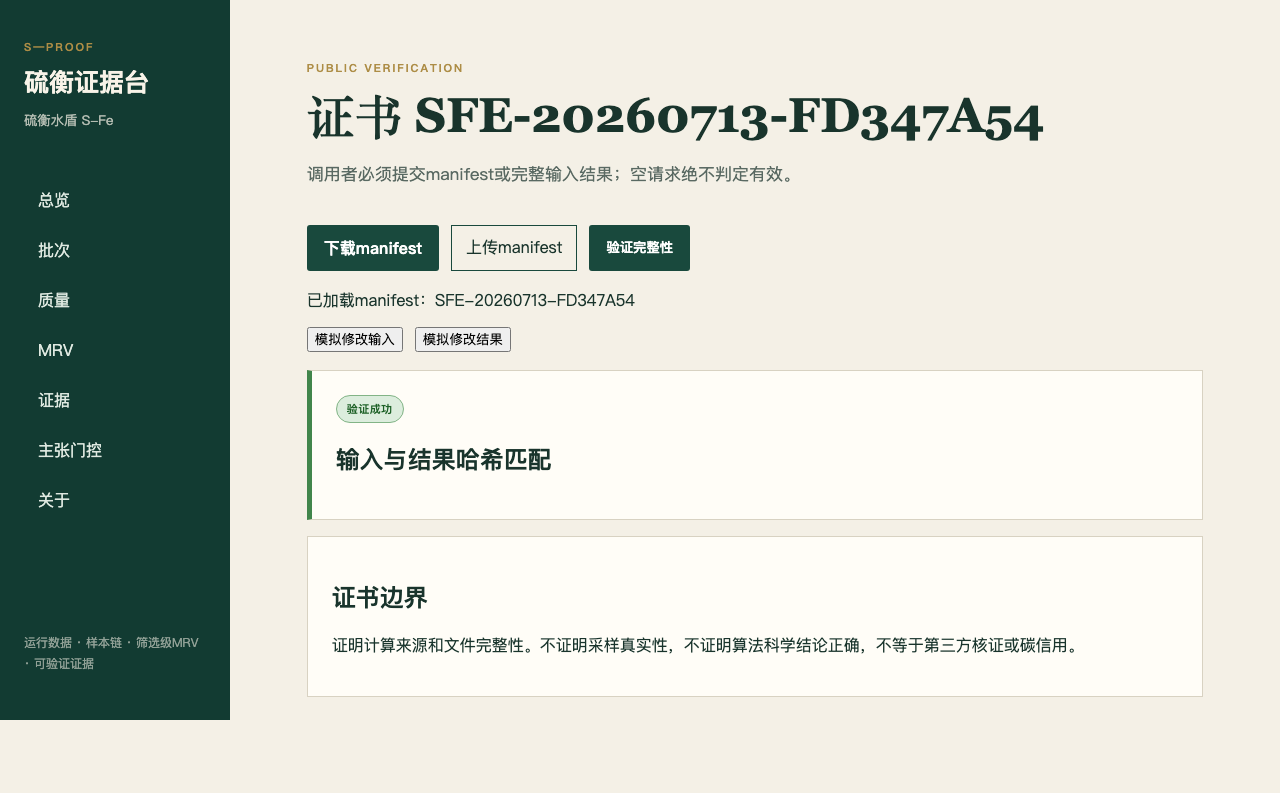
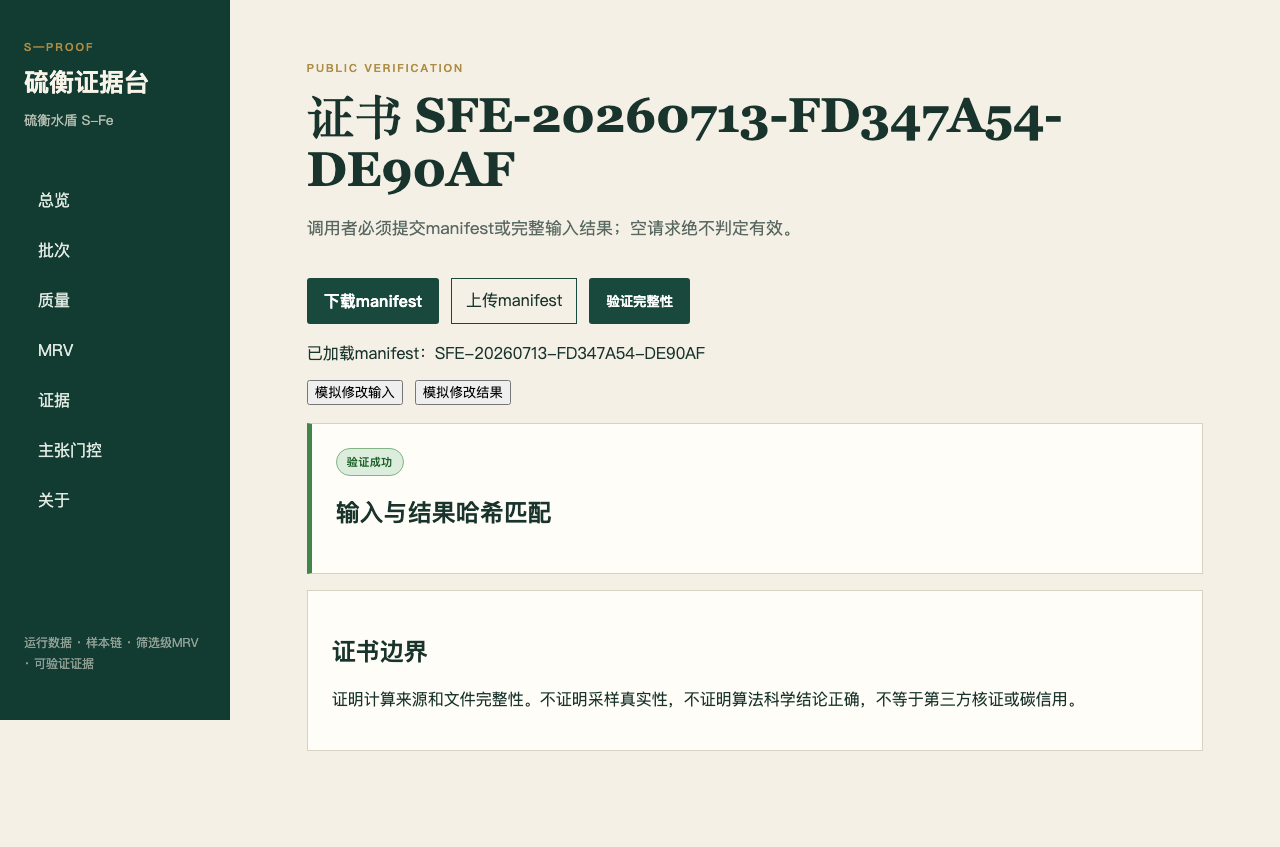
fix: correct MRV units and harden release chain

diff --git a/frontend/tests/ui.test.tsx b/frontend/tests/ui.test.tsx
@@ -8,7 +8,7 @@ import {BatchDetail, Batches, Claims, Dashboard, MRV, Verify} from '../src/pages
 
 function response(data:unknown, ok=true){return {ok,json:async()=>data} as Response}
 function wrap(node:React.ReactNode, entry='/'){
-  return render(<SWRConfig value={{provider:()=>new Map(),dedupingInterval:0}}><MemoryRouter initialEntries={[entry]}>{node}</MemoryRouter></SWRConfig>);
+  return render(<SWRConfig value={{provider:()=>new Map(),dedupingInterval:0}}><MemoryRouter future={{v7_startTransition:true,v7_relativeSplatPath:true}} initialEntries={[entry]}>{node}</MemoryRouter></SWRConfig>);
 }
 
 test('Dashboard数字来自API',async()=>{
@@ -23,12 +23,12 @@ test('批次详情展示API送样标签与测量',async()=>{
 });
 
 test('MRV不完整状态来自API',async()=>{
-  vi.stubGlobal('fetch',vi.fn().mockResolvedValue(response([{id:1,functional_unit:'处理1 m³',unit_intensity:'gCO2e/m3',baseline_emissions:2,project_emissions:1,difference:1,conclusion_status:'indeterminate',missing_items:['N₂O'],sensitivity:{low:.8,base:1,high:1.2},contributors:[]}])));
+  vi.stubGlobal('fetch',vi.fn().mockResolvedValue(response([{id:1,functional_unit:'处理1 m³',unit_intensity:'kgCO2e/m3',baseline_emissions:2,project_emissions:1,difference:1,conclusion_status:'indeterminate',missing_items:['N₂O'],sensitivity:{low:.8,base:1,high:1.2},contributors:[]}])));
   wrap(<MRV/>); expect(await screen.findByText('INDETERMINATE')).toBeInTheDocument(); expect(screen.getByText('N₂O')).toBeInTheDocument();
 });
 
 test('MRV演示按钮调用真实API并刷新结果',async()=>{
-  const result={id:2,functional_unit:'1_m3_treated',unit_intensity:'gCO2e/m3',baseline_emissions:2,project_emissions:1,difference:1,conclusion_status:'indeterminate',missing_items:['N₂O直接排放'],sensitivity:{low:{baseline:1,project:.5,difference:.5},base:{baseline:2,project:1,difference:1},high:{baseline:3,project:1.5,difference:1.5}},contributors:[]};
+  const result={id:2,functional_unit:'1_m3_treated',unit_intensity:'kgCO2e/m3',baseline_emissions:2,project_emissions:1,difference:1,conclusion_status:'indeterminate',missing_items:['N₂O直接排放'],sensitivity:{low:{baseline:1,project:.5,difference:.5},base:{baseline:2,project:1,difference:1},high:{baseline:3,project:1.5,difference:1.5}},contributors:[]};
   const fetchMock=vi.fn().mockResolvedValueOnce(response([])).mockResolvedValueOnce(response(result)).mockResolvedValueOnce(response([result])).mockResolvedValue(response({}));
   vi.stubGlobal('fetch',fetchMock);wrap(<MRV/>);fireEvent.click(await screen.findByRole('button',{name:'载入比赛演示情景并运行MRV'}));expect(await screen.findByText('INDETERMINATE')).toBeInTheDocument();expect(fetchMock).toHaveBeenCalledWith('/api/v1/mrv/runs',expect.objectContaining({method:'POST'}));
 });

diff --git a/frontend/src/main.tsx b/frontend/src/main.tsx
@@ -1,2 +1,2 @@
 import React from 'react'; import ReactDOM from 'react-dom/client'; import {BrowserRouter} from 'react-router-dom'; import App from './app/App'; import './styles.css';
-ReactDOM.createRoot(document.getElementById('root')!).render(<React.StrictMode><BrowserRouter><App/></BrowserRouter></React.StrictMode>);
+ReactDOM.createRoot(document.getElementById('root')!).render(<React.StrictMode><BrowserRouter future={{v7_startTransition:true,v7_relativeSplatPath:true}}><App/></BrowserRouter></React.StrictMode>);

diff --git a/frontend/e2e/competition-flow.spec.ts b/frontend/e2e/competition-flow.spec.ts
@@ -20,7 +20,7 @@ test('真实PostgreSQL与API比赛闭环',async({page,request})=>{
 
   await page.getByRole('link',{name:'MRV'}).click();
   await page.getByRole('button',{name:'载入比赛演示情景并运行MRV'}).click();
-  await expect(page.getByText('INDETERMINATE')).toBeVisible();
+  await expect(page.getByText('INDETERMINATE',{exact:true})).toBeVisible();
 
   await page.getByRole('link',{name:'主张门控'}).click();
   await page.getByRole('button',{name:'检查表述'}).click();

diff --git a/backend/app/services/mrv.py b/backend/app/services/mrv.py
@@ -1,20 +1,34 @@
 import hashlib
 import json
+import math
+
+EMISSION_UNIT_TO_KG = {"gco2e": 0.001, "kgco2e": 1.0, "tco2e": 1000.0}
 
 
 def _normalized_unit(unit: str) -> str:
     return unit.strip().replace("³", "3").replace("₂", "2").replace(" ", "").lower()
 
 
-def validate_activity_factor_unit(activity_unit: str, factor_unit: str) -> None:
-    """Reject activity data that cannot cancel the denominator of its factor."""
+def factor_multiplier_to_kg(activity_unit: str, factor_unit: str) -> float:
+    """Validate a factor unit and return the multiplier that normalizes it to kgCO2e."""
     normalized_factor = _normalized_unit(factor_unit)
     if "/" not in normalized_factor:
         raise ValueError(f"排放因子单位格式无效：{factor_unit}")
-    expected = normalized_factor.rsplit("/", 1)[1]
+    numerator, expected = normalized_factor.rsplit("/", 1)
+    if numerator not in EMISSION_UNIT_TO_KG:
+        raise ValueError(f"不支持的排放因子分子单位：{factor_unit}")
     if _normalized_unit(activity_unit) != expected:
         expected_display = factor_unit.rsplit("/", 1)[1].strip()
         raise ValueError(f"活动单位 {activity_unit} 与排放因子单位 {factor_unit} 不匹配（应为 {expected_display}）")
+    return EMISSION_UNIT_TO_KG[numerator]
+
+
+def validate_factor_values(name: str, factor: dict) -> None:
+    values = tuple(factor[f"value_{level}"] for level in ("low", "base", "high"))
+    if not all(isinstance(value, (int, float)) and math.isfinite(value) and value >= 0 for value in values):
+        raise ValueError(f"{name}的排放因子必须为有限非负数")
+    if not values[0] <= values[1] <= values[2]:
+        raise ValueError(f"{name}的排放因子必须满足 low <= base <= high")
 
 
 def canonical_hash(data: object) -> str:
@@ -41,13 +55,14 @@ def calculate_mrv(
         if not factor:
             missing.append(f"{activity['name']}（因子注册表缺失）")
             continue
-        validate_activity_factor_unit(activity["unit"], factor["unit"])
+        multiplier_to_kg = factor_multiplier_to_kg(activity["unit"], factor["unit"])
+        validate_factor_values(activity["name"], factor)
         placeholder = activity.get("placeholder", False) or factor["placeholder"] or activity["data_grade"] == "placeholder"
         if placeholder:
             missing.append(f"{activity['name']}（占位数据或因子）")
         emissions = {}
         for level in ("low", "base", "high"):
-            value = activity[f"amount_{level}"] * factor[f"value_{level}"]
+            value = activity[f"amount_{level}"] * factor[f"value_{level}"] * multiplier_to_kg
             totals[activity["scenario"]][level] += value
             emissions[level] = round(value, 6)
         contributors.append(
@@ -60,11 +75,13 @@ def calculate_mrv(
                 "factor_low": factor["value_low"],
                 "factor_base": factor["value_base"],
                 "factor_high": factor["value_high"],
+                "factor_unit": factor["unit"],
                 "unit": activity["unit"],
                 "source": activity["source"],
                 "data_grade": activity["data_grade"],
                 "placeholder": placeholder,
                 "factor_source": factor["source"],
+                "emissions_unit": "kgCO2e",
                 "emissions": emissions,
             }
         )

diff --git a/backend/tests/test_api.py b/backend/tests/test_api.py
@@ -11,6 +11,28 @@ def create_chain(client):
     return project, batch, sample, measurement
 
 
+def register_electricity_factor():
+    override = app.dependency_overrides[get_db]
+    database = next(override())
+    database.add(
+        EmissionFactor(
+            name="电力",
+            applicable_activity="electricity",
+            value=0.5,
+            value_low=0.4,
+            value_base=0.5,
+            value_high=0.6,
+            unit="kgCO2e/kWh",
+            source="test",
+            version="demo-cn-screening-2026.1",
+            gwp_version="AR6",
+            data_grade="reported",
+            is_placeholder=False,
+        )
+    )
+    database.commit()
+
+
 def test_healthz(client):
     assert client.get("/healthz").json() == {"status": "ok"}
 
@@ -37,6 +59,7 @@ def test_api_claim_gate(client):
 
 
 def test_api_mrv_gate(client):
+    register_electricity_factor()
     body = {
         "activities": [
             {
@@ -57,6 +80,7 @@ def test_api_mrv_gate(client):
 
 
 def test_mrv_kg_tn_functional_unit_changes_output_unit(client):
+    register_electricity_factor()
     body = {
         "functional_unit": "1_kg_TN_removed",
         "activities": [
@@ -74,29 +98,11 @@ def test_mrv_kg_tn_functional_unit_changes_output_unit(client):
             for scenario in ("baseline", "project")
         ],
     }
-    assert client.post("/api/v1/mrv/runs", json=body).json()["unit_intensity"] == "gCO2e/kg TN"
+    assert client.post("/api/v1/mrv/runs", json=body).json()["unit_intensity"] == "kgCO2e/kg TN"
 
 
 def test_api_mrv_rejects_unit_mismatch_with_422(client):
-    override = app.dependency_overrides[get_db]
-    database = next(override())
-    database.add(
-        EmissionFactor(
-            name="电力",
-            applicable_activity="electricity",
-            value=0.5,
-            value_low=0.4,
-            value_base=0.5,
-            value_high=0.6,
-            unit="kgCO2e/kWh",
-            source="test",
-            version="demo-cn-screening-2026.1",
-            gwp_version="AR6",
-            data_grade="reported",
-            is_placeholder=False,
-        )
-    )
-    database.commit()
+    register_electricity_factor()
     body = {
         "activities": [
             {
@@ -116,6 +122,12 @@ def test_api_mrv_rejects_unit_mismatch_with_422(client):
     response = client.post("/api/v1/mrv/runs", json=body)
     assert response.status_code == 422
     assert "kgCO2e/kWh" in response.json()["detail"]
+
+
+def test_api_mrv_rejects_unknown_factor_set_version(client):
+    response = client.post("/api/v1/mrv/runs", json={"factor_set_version": "missing", "activities": []})
+    assert response.status_code == 422
+    assert response.json()["detail"] == "未知排放因子版本：missing"
 
 
 def test_api_certificate_roundtrip(client):

diff --git a/backend/tests/test_postgres_integration.py b/backend/tests/test_postgres_integration.py
@@ -22,3 +22,27 @@ def test_seeded_postgres_api_chain():
     assert len(detail["samples"]) == 12
     assert sum(len(sample["measurements"]) for sample in detail["samples"]) == 36
     assert detail["calculations"]["TN_mg_L"]["concentration_reduction_pct"] == 96.17
+
+
+def test_postgres_mrv_uses_registered_factor_units_and_rejects_unknown_version():
+    activities = [
+        {
+            "scenario": scenario,
+            "name": f"{scenario}电力",
+            "factor_activity": "electricity",
+            "amount_low": amount * 0.5,
+            "amount_base": amount,
+            "amount_high": amount * 1.5,
+            "unit": "kWh",
+            "source": "PostgreSQL integration",
+            "data_grade": "reported",
+        }
+        for scenario, amount in (("baseline", 2), ("project", 1))
+    ]
+    response = httpx.post(f"{BASE_URL}/api/v1/mrv/runs", json={"activities": activities}, timeout=10)
+    assert response.status_code == 201
+    assert response.json()["unit_intensity"] == "kgCO2e/m3"
+    assert response.json()["baseline_emissions"] == 1.1406
+
+    unknown = httpx.post(f"{BASE_URL}/api/v1/mrv/runs", json={"activities": activities, "factor_set_version": "missing"}, timeout=10)
+    assert unknown.status_code == 422

diff --git a/backend/app/api/router.py b/backend/app/api/router.py
@@ -296,6 +296,8 @@ def findings(batch_id: int = Query(...), scan_run_id: str | None = None, db: Ses
 @router.post("/mrv/runs", status_code=201)
 def mrv_run(body: MRVRequest, db: Session = Depends(get_db)):
     registered = list(db.scalars(select(EmissionFactor).where(EmissionFactor.version == body.factor_set_version)))
+    if not registered:
+        raise HTTPException(status_code=422, detail=f"未知排放因子版本：{body.factor_set_version}")
     factors = {
         factor.applicable_activity: {
             "value_low": factor.value_low if factor.value_low is not None else factor.value,
@@ -319,7 +321,7 @@ def mrv_run(body: MRVRequest, db: Session = Depends(get_db)):
     except ValueError as exc:
         raise HTTPException(status_code=422, detail=str(exc)) from exc
     persisted = {key: value for key, value in result.items() if key != "confirmed_reduction_allowed"}
-    unit_intensity = "gCO2e/kg TN" if body.functional_unit == "1_kg_TN_removed" else "gCO2e/m3"
+    unit_intensity = "kgCO2e/kg TN" if body.functional_unit == "1_kg_TN_removed" else "kgCO2e/m3"
     item = MRVRun(functional_unit=body.functional_unit, unit_intensity=unit_intensity, **persisted)
     db.add(item)
     db.commit()

diff --git a/backend/tests/test_mrv_quality_certificates.py b/backend/tests/test_mrv_quality_certificates.py
@@ -87,6 +87,20 @@ def test_mrv_accepts_unicode_volume_unit_for_volume_factor():
     assert run([baseline, project], volume_factor)["contributors"]
 
 
+def test_mrv_normalizes_gram_factors_to_kilograms():
+    gram_factor = {"electricity": {"value_low": 1000, "value_base": 2000, "value_high": 3000, "source": "registry", "unit": "gCO2e/kWh", "placeholder": False}}
+    result = run([activity("baseline", 1), activity("project", 1)], gram_factor)
+    assert result["baseline_emissions"] == 2
+    assert result["contributors"][0]["emissions_unit"] == "kgCO2e"
+
+
+@pytest.mark.parametrize("values", [(-1, 1, 2), (1, float("nan"), 2), (2, 1, 3)])
+def test_mrv_rejects_invalid_registered_factor_values(values):
+    invalid = {"electricity": {"value_low": values[0], "value_base": values[1], "value_high": values[2], "source": "registry", "unit": "kgCO2e/kWh", "placeholder": False}}
+    with pytest.raises(ValueError, match="排放因子"):
+        run([activity("baseline"), activity("project")], invalid)
+
+
 def test_provenance_warning_for_submitted_lab():
     assert "不等于第三方现场采样" in warning_for("submitted_to_third_party_lab")
 

diff --git a/backend/tests/test_release_consistency.py b/backend/tests/test_release_consistency.py
@@ -1,0 +1,18 @@
+import json
+import tomllib
+from pathlib import Path
+
+from app.core.config import ALGORITHM_VERSION
+from app.main import app
+
+
+def test_release_versions_stay_in_sync():
+    root = Path(__file__).resolve().parents[2]
+    backend_version = tomllib.loads((root / "backend/pyproject.toml").read_text())["project"]["version"]
+    frontend_version = json.loads((root / "frontend/package.json").read_text())["version"]
+    frontend_lock_version = json.loads((root / "frontend/package-lock.json").read_text())["version"]
+    uv_packages = tomllib.loads((root / "backend/uv.lock").read_text())["package"]
+    backend_lock_version = next(package["version"] for package in uv_packages if package["name"] == "sfe-proof-backend")
+
+    assert backend_version == backend_lock_version == frontend_version == frontend_lock_version == app.version == "0.2.1"
+    assert ALGORITHM_VERSION == f"sfe-proof-core/{app.version}"

diff --git a/backend/alembic/versions/0005_correct_mrv_emission_units.py b/backend/alembic/versions/0005_correct_mrv_emission_units.py
@@ -1,0 +1,18 @@
+"""correct persisted MRV emission unit labels"""
+
+from alembic import op
+
+revision = "0005"
+down_revision = "0004"
+branch_labels = None
+depends_on = None
+
+
+def upgrade():
+    op.execute("UPDATE mrv_runs SET unit_intensity = 'kgCO2e/m3' WHERE unit_intensity = 'gCO2e/m3'")
+    op.execute("UPDATE mrv_runs SET unit_intensity = 'kgCO2e/kg TN' WHERE unit_intensity = 'gCO2e/kg TN'")
+
+
+def downgrade():
+    op.execute("UPDATE mrv_runs SET unit_intensity = 'gCO2e/m3' WHERE unit_intensity = 'kgCO2e/m3'")
+    op.execute("UPDATE mrv_runs SET unit_intensity = 'gCO2e/kg TN' WHERE unit_intensity = 'kgCO2e/kg TN'")

diff --git a/backend/app/models/entities.py b/backend/app/models/entities.py
@@ -174,7 +174,7 @@ class MRVRun(Base):
     baseline_emissions: Mapped[float]
     project_emissions: Mapped[float]
     difference: Mapped[float]
-    unit_intensity: Mapped[str] = mapped_column(default="gCO2e/m3")
+    unit_intensity: Mapped[str] = mapped_column(default="kgCO2e/m3")
     sensitivity: Mapped[dict] = mapped_column(JSON)
     contributors: Mapped[list] = mapped_column(JSON)
     missing_items: Mapped[list] = mapped_column(JSON)

diff --git a/backend/app/main.py b/backend/app/main.py
@@ -16,7 +16,7 @@ async def lifespan(_: FastAPI):
     yield
 
 
-app = FastAPI(title="SFe Proof API", version="0.2.0", description="硫铁复合水处理运行与证据系统", lifespan=lifespan)
+app = FastAPI(title="SFe Proof API", version="0.2.1", description="硫铁复合水处理运行与证据系统", lifespan=lifespan)
 app.include_router(router)
 
 
